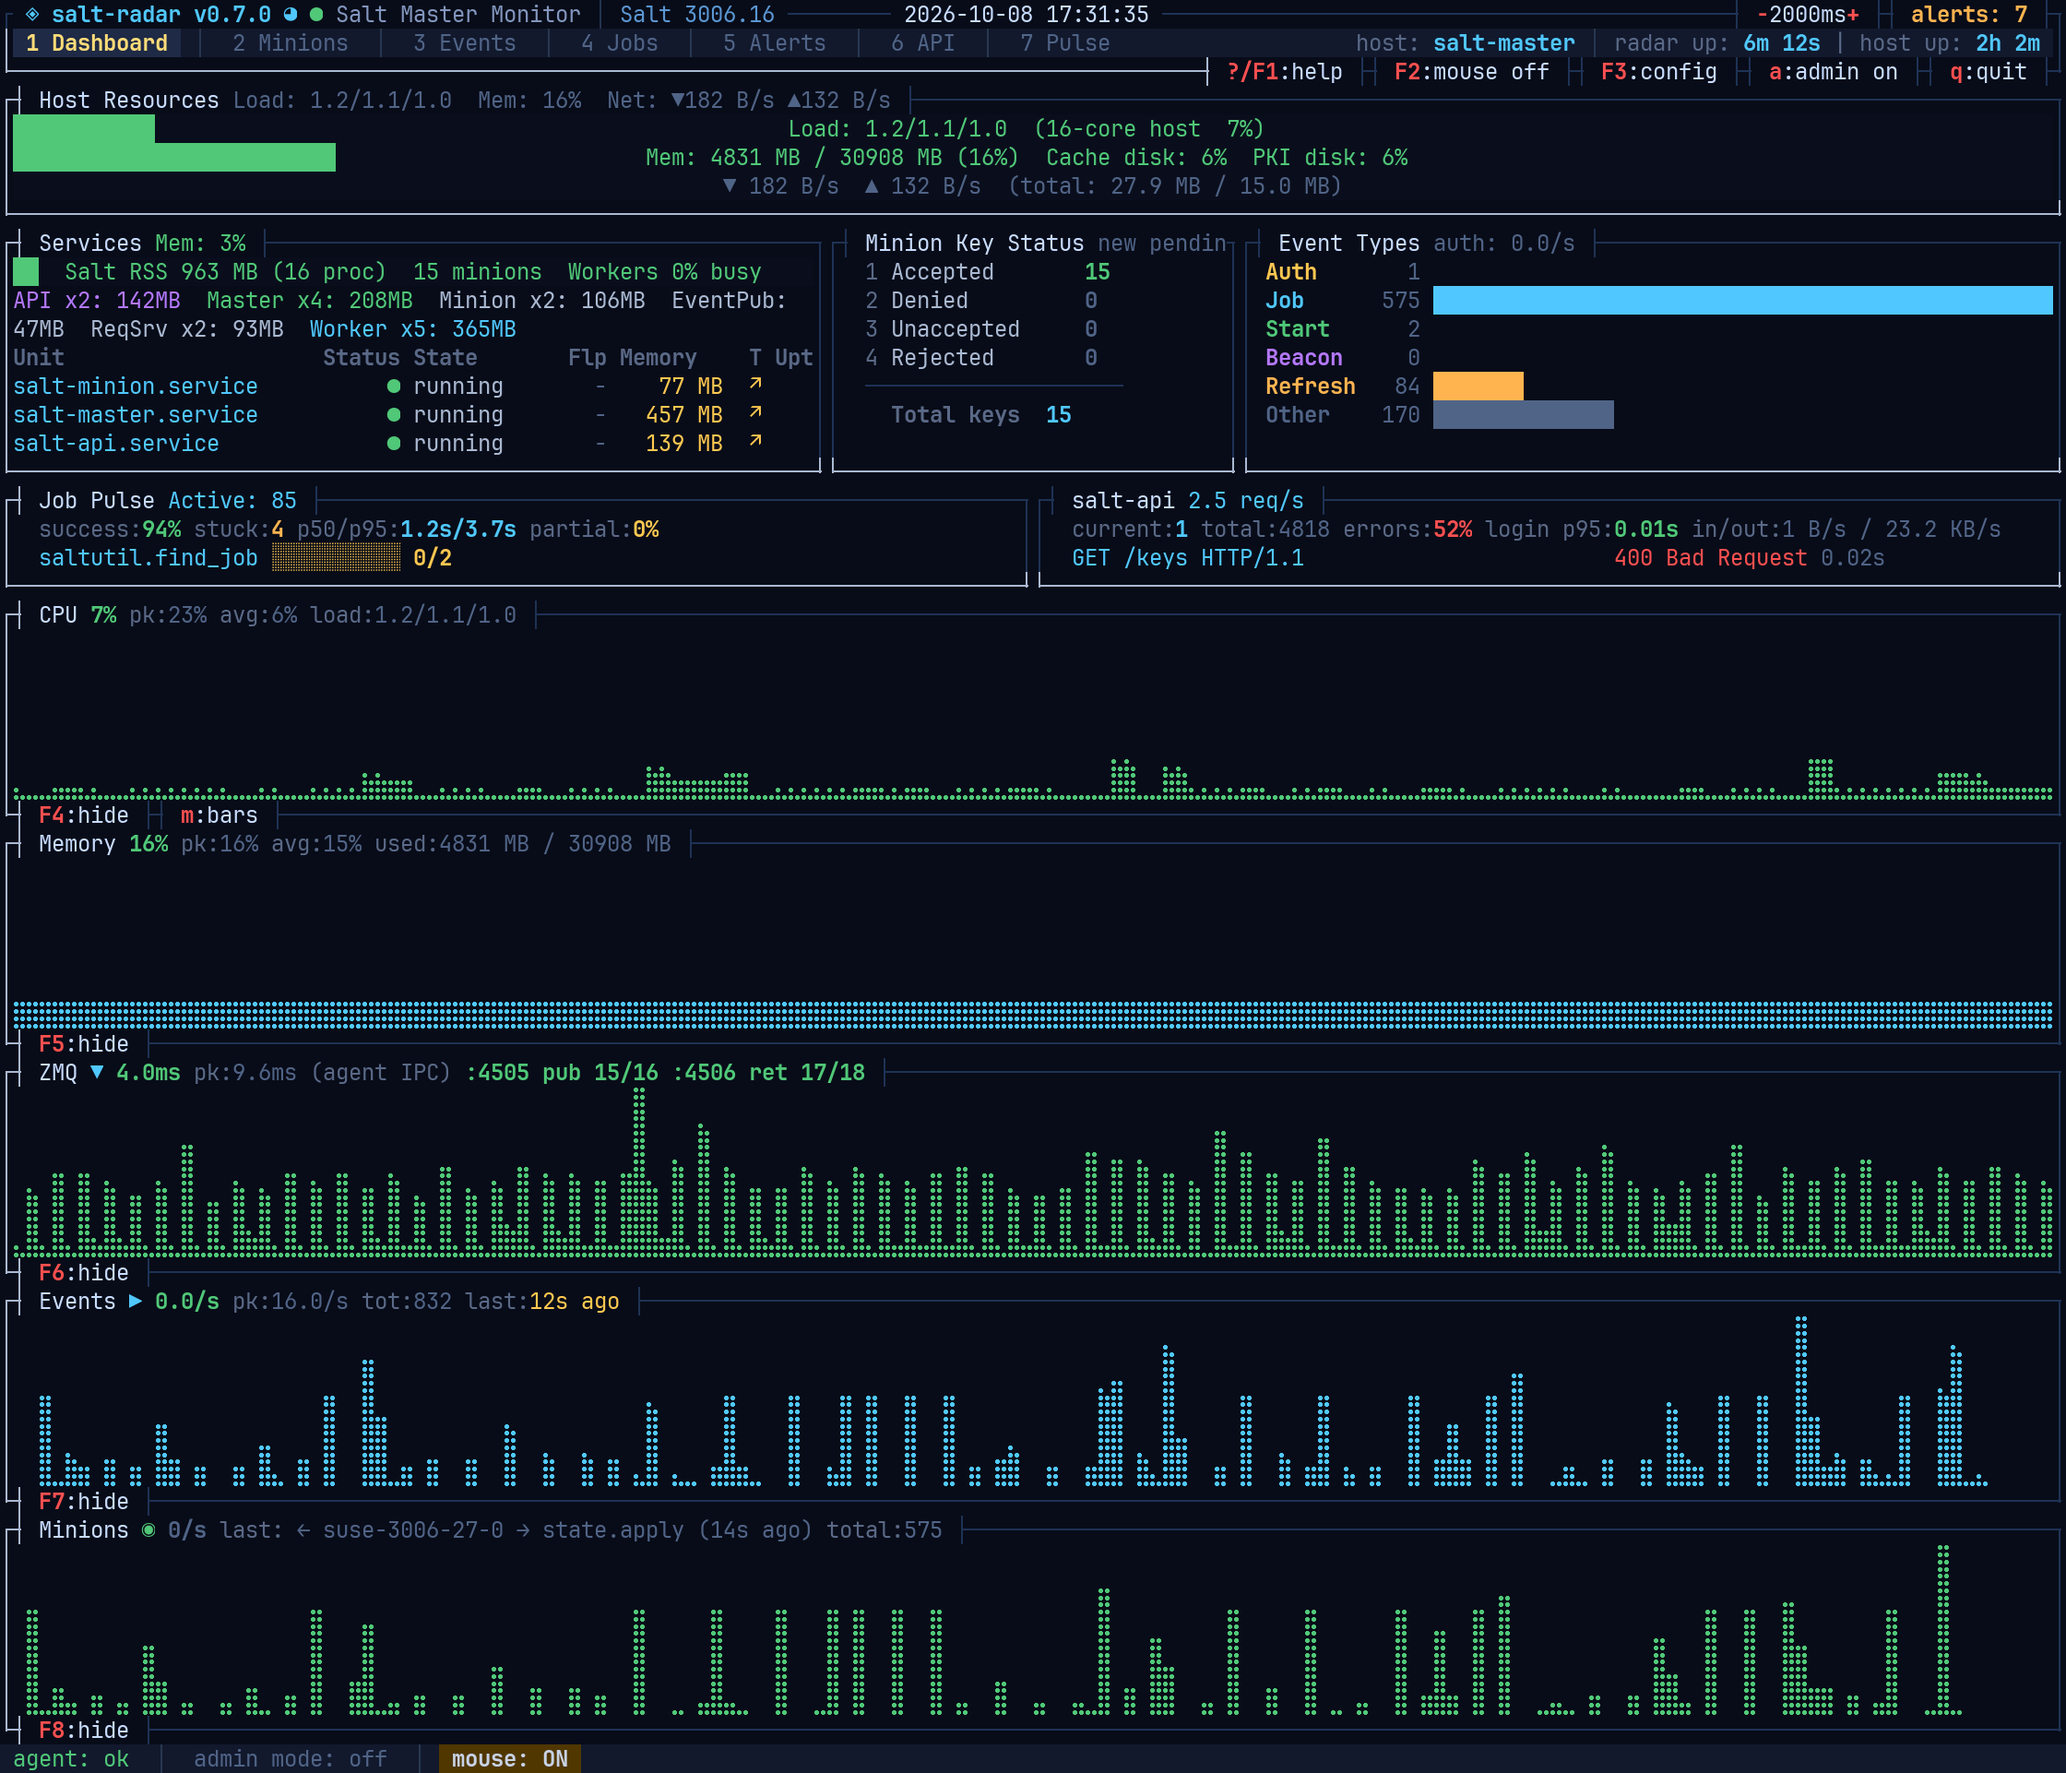
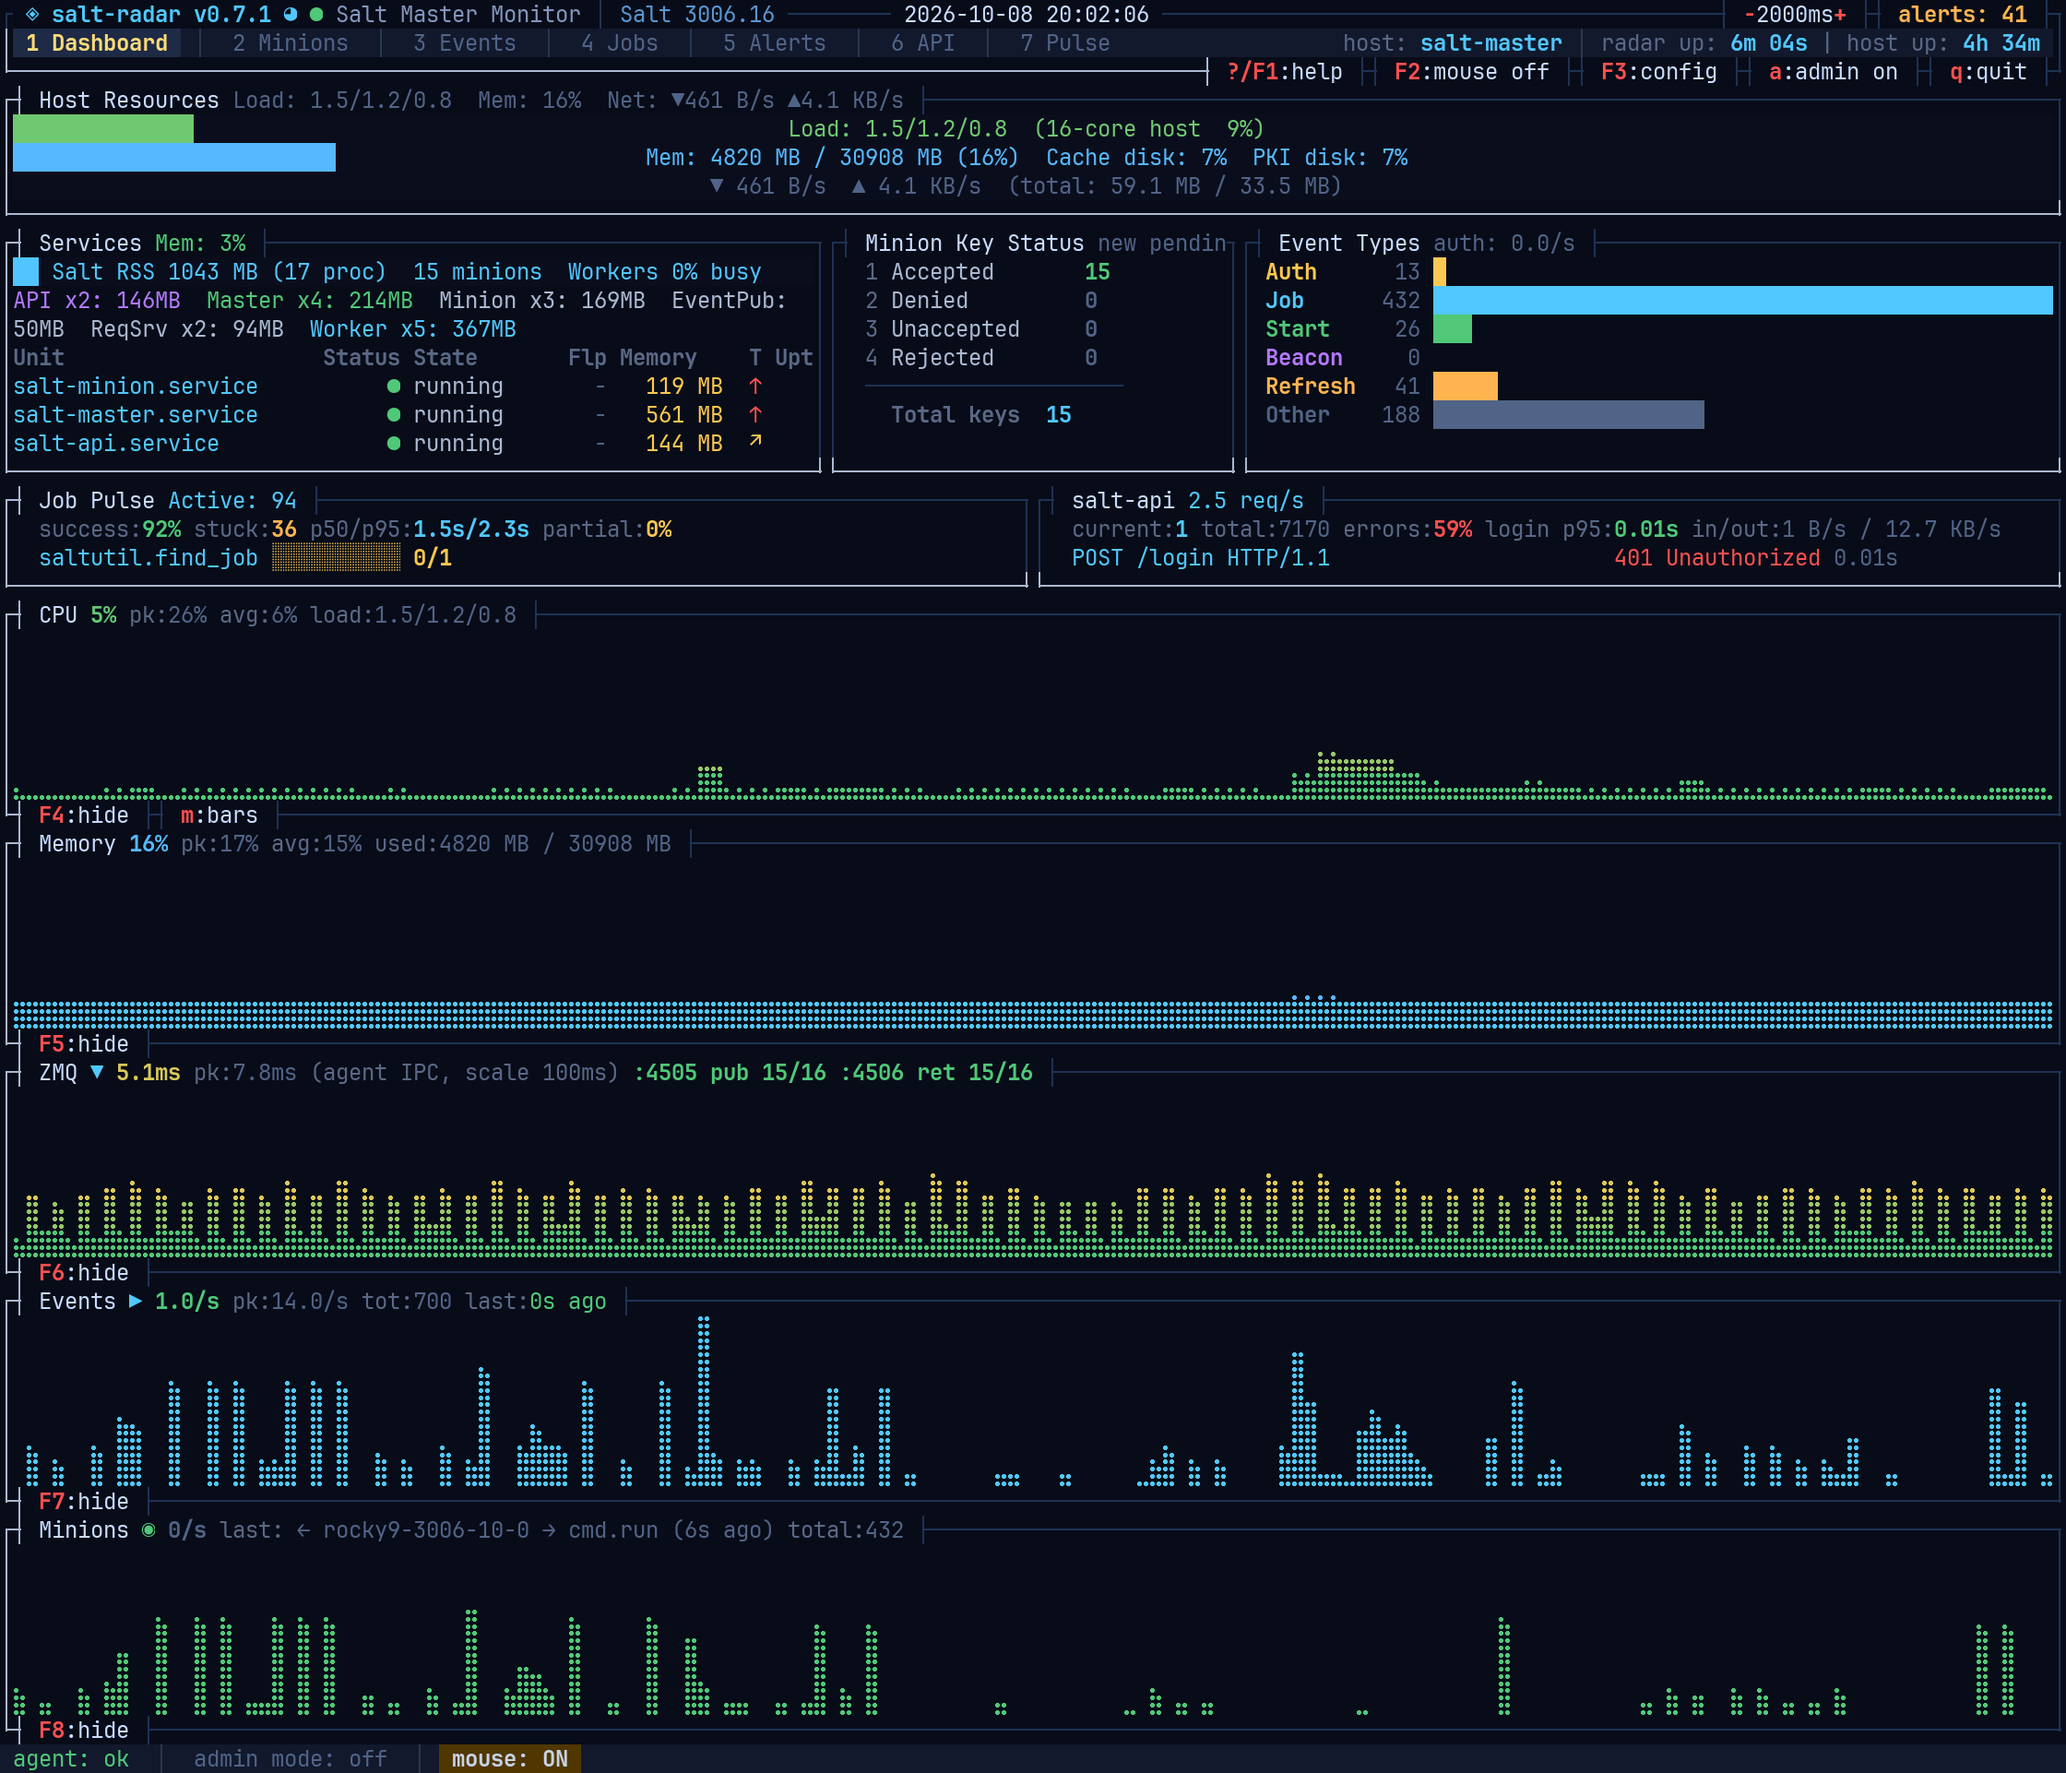
docs: refresh screenshots and document memory colors, scan and follow

diff --git a/README.md b/README.md
@@ -95,7 +95,7 @@ Live overview of your Salt Master with real-time sparkline panels:
 - **ZMQ** — established connection counts per port (pub/ret/api), plus a latency sparkline whose source is configurable (`zmq_latency_source`): a local agent round-trip (default), a real `test.ping` round-trip over the event bus, or Salt's own `master_stats` instrumentation. The graph uses a log scale up to `zmq_latency_ceiling_ms` — the latency that counts as "bad", drawn red at the top — defaulting per source (100 ms for the agent round-trip, 1 s for `test.ping`, 500 ms for `master_stats`)
 - **Event Rate** — Events/sec sparkline with peak and total counters
 - **Minion Activity** — Job return rate sparkline with last-active minion tracking
-- **Level colors** — the CPU, Memory and ZMQ graphs are colored btop-style by height: each row by how high it sits on the graph's fixed scale, blending green → yellow → amber → red toward the top, so a bar's color shows how high it reached and the history never recolors. Their headline figures (and the Host Resources meters) use the same smooth gradient instead of hard thresholds, so a value hovering near a boundary doesn't flicker between colors
+- **Level colors** — the CPU, Memory and ZMQ graphs are colored btop-style by height: each row by how high it sits on the graph's fixed scale, blending green → yellow → amber → red toward the top (Memory has its own calmer cyan → blue → amber → red gradient, as btop's memory meters do), so a bar's color shows how high it reached and the history never recolors. Their headline figures (and the Host Resources meters) use the same smooth gradient instead of hard thresholds, so a value hovering near a boundary doesn't flicker between colors
 - **CPU / Memory** — utilization-history sparklines, toggle alongside the other three sparkline panels via `show_*_graph`; stacking order of all five panels is configurable via `graph_order` — in the Config Editor (`F3`, edited as a reorderable list: `↑↓` to select, `+`/`-` to move) or by hand in `salt-radar.toml`
 - **Job Pulse** — Active jobs with progress bars, rolling success rate, stuck-job count, and p50/p95 completion latency. Shares a row with salt-api (side by side) when both are shown, since neither needs the terminal's full width; Job Pulse alone takes the full row when salt-api isn't shown
 - **salt-api** — shown only when a `salt-api` process is detected; request rate, error rate, `POST /login` p50/p95 latency, in-flight/total request counts, and the most recent request per worker thread (path, status, timing). Needs `rest_cherrypy: {collect_stats: True}` in the master config, plus one of two ways to access the `/stats` endpoint that serves this data — salt-radar polls `GET /stats`, salt-api's own built-in in-memory request-stats endpoint (CherryPy's `cpstats`), which records the request line, client, status and timing entirely in process memory. This is a different mechanism from Salt's `log_level`/access logging: nothing is ever written to disk, and the request *line* it records never includes the body — so credentials sent in a POST body (e.g. `/login`) are never captured. Request rate is a real recent figure (computed by salt-radar from the delta between polls); error rate and login latency are also tracked by salt-radar itself, since cpstats only exposes a lifetime-average rate and a live per-thread snapshot, not cumulative error/latency counters of its own.
@@ -135,7 +135,7 @@ Live overview of your Salt Master with real-time sparkline panels:
 - Job cache supports pagination (`[`/`]` adjust limit, `,`/`.` page navigation) and server-side search
 - **Args** column shows what a job was run with: for `state.apply`/`state.sls` the requested formula (e.g. `apache.install`), `highstate` when none was named, and a dimmed `(test)` marker for `test=True` dry runs; for other functions their arguments (e.g. `uptime` for `cmd.run`). The `/` filter matches it too
 - Sortable and configurable columns (see [Columns and sorting](#columns-and-sorting)) — the Job Cache is sorted across the whole cache by the agent, not just the page on screen
-- Default order (no sort column picked): Live Jobs run oldest to newest by JID, tail-style like Events; the Job Cache lists newest first
+- Default order (no sort column picked): Live Jobs run oldest to newest by JID, tail-style like Events — the cursor stays on the newest job as new ones arrive, until you move it (`End` resumes following); the Job Cache lists newest first
 - Per-minion return navigation (j/k), scrollable output viewer (Enter)
 - Copy return output to clipboard (y = Salt outputter format, Y = raw JSON), or save it to file (s/S, same two formats)
 - Jobs with hundreds of returns aren't limited to one minion at a time: `a`/`A` save every return in the job to a single file (Salt outputter format / one JSON object keyed by minion id), from the return list
@@ -179,7 +179,7 @@ Shown only once salt-api's `/stats` is reachable (see Dashboard above for the `c
 
 ### Admin Mode
 - Toggle with `a` (danger-zone confirmation dialog required)
-- **Fleet scan** (`s`): runs `grains.items` on all minions via Salt LocalClient, populates OS/Salt Version/Arch data
+- **Fleet scan** (`s`): runs `grains.items` on all minions via Salt LocalClient, populates OS/Salt Version/Arch data; it finishes as soon as every minion has answered, and marks any still silent after 60s as timed out
 
 ### Columns and sorting
 - The Minions, Events, Jobs (both tables), Alerts and API request log tables let you choose which columns are shown and in what order: `v` opens a picker for the focused table (`+`/`-` move a column, `Space` shows/hides it, `Enter` saves), also editable in the Config Editor — `minion_columns`, `event_columns`, `live_columns`/`cache_columns`, `alert_columns` and `request_columns` in their sections of `salt-radar.toml`

diff --git a/CHANGELOG.md b/CHANGELOG.md
@@ -7,6 +7,15 @@ and this project adheres to [Semantic Versioning](https://semver.org/spec/v2.0.0
 
 ## [Unreleased]
 
+### Added
+
+- Add `mem_gradient_start`/`mem_gradient_mid`/`mem_gradient_high`/`mem_gradient_end` theme keys: the Memory graph, its headline figure and the Host Resources and Services memory meters get their own level gradient — cyan → blue → amber → red by default, so memory reads blue again while it's calm; the bundled btop ports take it from btop's own memory (`used_*`) gradient (#115)
+
+### Changed
+
+- Finish a fleet scan as soon as every expected minion has answered, instead of always waiting out its 60-second timeout (which still marks minions that never answer as timed out) (#116)
+- Keep the Live Jobs cursor on the newest job as new jobs arrive, like the Events tab: moving it elsewhere stops following and `End` resumes it; with a sort column active the cursor stays put (#117)
+
 ## [0.7.1] - 2026-10-08
 
 ### Added
